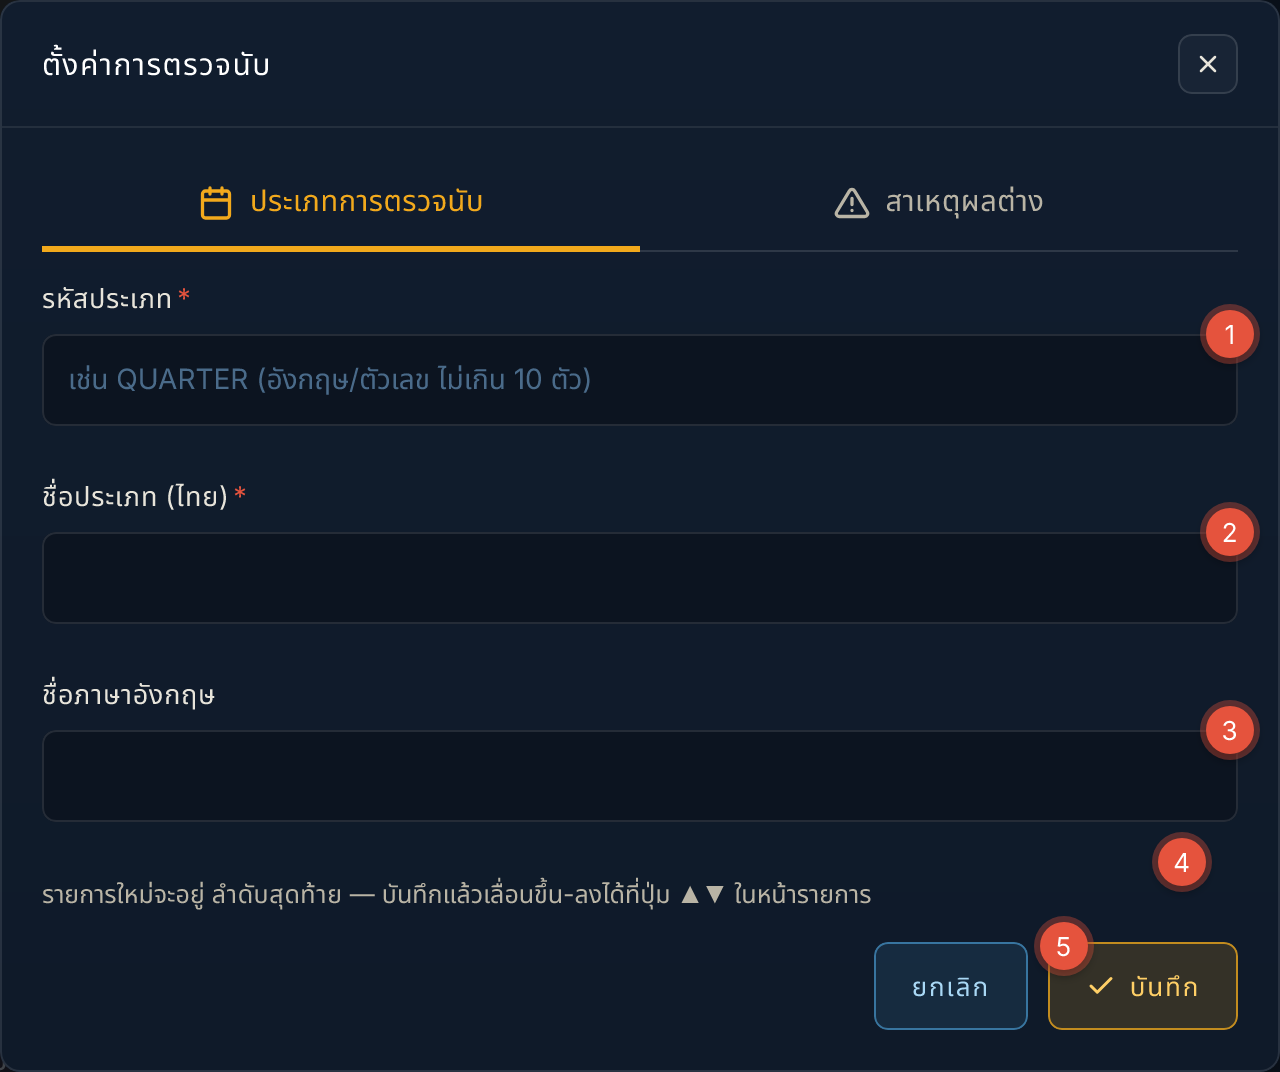
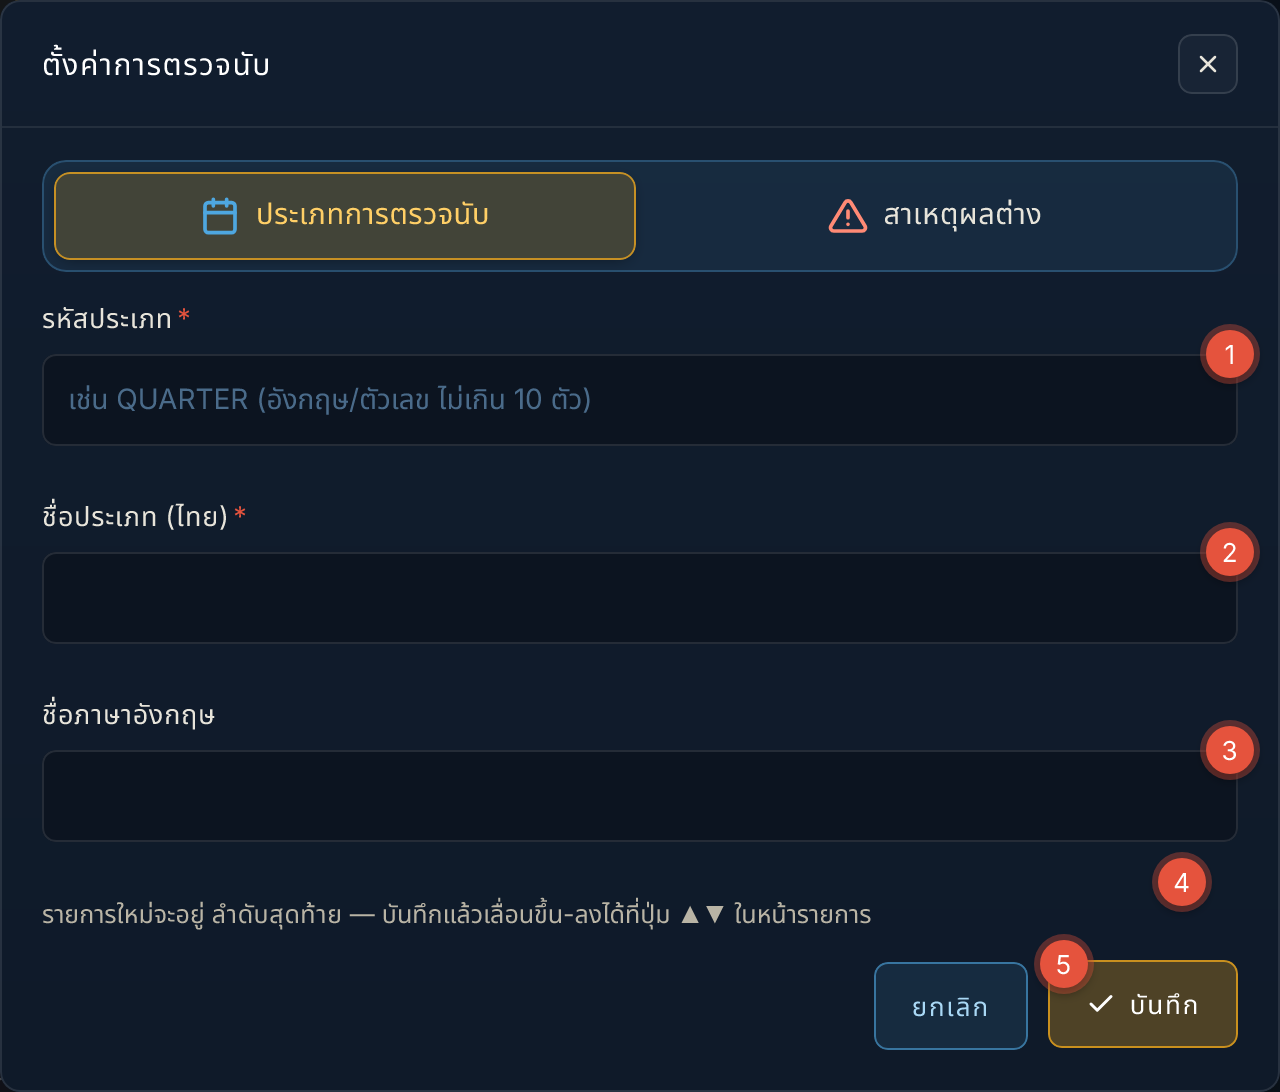
Fix duplicate SQL param in compFilter (restricted-company users could not load report meta); settings dialog tab/row styling

diff --git a/public/stock-count.html b/public/stock-count.html
@@ -1017,23 +1017,34 @@
     #dlgModal .form-grid.g2 input{height:46px; min-height:46px;}
     #dlgModal .form-grid.g2 .form-group.full{grid-column:1 / -1;}
   }
-  .su-tabs{display:flex; border-bottom:1px solid rgba(255,255,255,.12); margin-bottom:14px;}
-  .su-tabs button{flex:1; display:flex; align-items:center; justify-content:center; gap:8px; min-height:46px; padding:0 8px; background:none; border:0; border-bottom:3px solid transparent; margin-bottom:-1px; color:var(--concrete-400); font:inherit; font-size:14.5px; font-weight:600; cursor:pointer;}
-  .su-tabs button:hover{color:#fff;}
-  .su-tabs button.on{color:var(--amber-500); border-bottom-color:var(--amber-500);}
-  .su-tabs svg{width:18px; height:18px; flex:none;}
+  .su-tabs{display:flex; gap:4px; padding:5px; margin-bottom:14px; border-radius:12px; background:rgba(78,167,224,.1); border:1px solid rgba(78,167,224,.3);}
+  .su-tabs button{flex:1; display:flex; align-items:center; justify-content:center; gap:8px; min-height:44px; padding:0 8px; background:none; border:1px solid transparent; border-radius:8px; color:var(--concrete-200); font:inherit; font-size:14.5px; font-weight:600; cursor:pointer; transition:background .15s, border-color .15s;}
+  .su-tabs button:hover{background:rgba(255,255,255,.06); color:#fff;}
+  .su-tabs button.on{background:rgba(242,169,28,.2); border-color:rgba(242,169,28,.75); color:#ffcf66; box-shadow:0 2px 8px -3px rgba(0,0,0,.5);}
+  .su-tabs svg{width:20px; height:20px; flex:none;}
+  .su-tabs button[data-sutab=type] svg{color:#4ea7e0;}
+  .su-tabs button[data-sutab=cause] svg{color:#ff8a75;}
   .su-hint{font-size:12.5px; color:var(--concrete-400); margin:0 0 12px; line-height:1.6;}
-  .su-row{display:flex; align-items:center; gap:10px; padding:10px 12px; border:1px solid rgba(255,255,255,.1); border-radius:10px; background:rgba(255,255,255,.03); margin-bottom:8px;}
-  .su-row.off .su-main{opacity:.55;}
-  .su-ord{display:flex; align-items:center; gap:6px; flex:none;}
-  .su-ord button{width:36px; height:36px; border-radius:8px; border:1px solid rgba(78,167,224,.45); background:rgba(78,167,224,.1); color:#a9d8f5; cursor:pointer; font-size:12px; padding:0;}
+  .su-row{display:flex; align-items:center; gap:10px; padding:8px 12px; border:1px solid rgba(255,255,255,.1); border-radius:10px; background:rgba(255,255,255,.03); margin-bottom:6px;}
+  .su-row.off .su-main b, .su-row.off .su-main small{opacity:.55;}
+  .su-ord{display:flex; align-items:center; gap:4px; flex:none;}
+  .su-ord button{width:32px; height:32px; border-radius:8px; border:1px solid rgba(78,167,224,.45); background:rgba(78,167,224,.1); color:#a9d8f5; cursor:pointer; font-size:11px; padding:0;}
   .su-ord button:disabled{opacity:.25; cursor:default;}
-  .su-ord .no{min-width:26px; text-align:center; font-family:'JetBrains Mono',monospace; font-weight:700; color:var(--amber-500); font-size:15px;}
-  .su-main{flex:1 1 auto; min-width:0;}
+  .su-ord .no{min-width:24px; text-align:center; font-family:'JetBrains Mono',monospace; font-weight:700; color:var(--amber-500); font-size:15px;}
+  .su-main{flex:1 1 auto; min-width:0; display:flex; align-items:center; gap:4px 14px; flex-wrap:wrap;}
   .su-main b{color:#fff; font-weight:600; overflow-wrap:anywhere;}
-  .su-main small{display:block; color:var(--concrete-400); font-size:12px; margin-top:2px;}
-  .su-main .switch{font-size:13px; margin-top:6px;}
-  .su-row .btn{flex:none; min-height:40px;}
+  .su-main small{color:var(--concrete-400); font-size:12px;}
+  .su-main .switch{font-size:13px; margin-left:auto;}
+  .su-row .btn{flex:none; min-height:36px; padding:0 12px;}
+  @media (max-width:560px){
+    .su-tabs button{font-size:13px; gap:5px; padding:0 4px; white-space:nowrap;} .su-tabs svg{width:17px; height:17px;}
+    .su-row{padding:10px 12px; margin-bottom:8px;}
+    .su-ord button{width:36px; height:36px;}
+    .su-main{flex-direction:column; align-items:flex-start; gap:2px;}
+    .su-main small{display:block;}
+    .su-main .switch{margin:6px 0 0;}
+    .su-row .btn{min-height:40px;}
+  }
   .su-form .form-group{margin-bottom:12px;}
   .su-form input[type=text], .su-form input[type=number]{height:46px; min-height:46px;}
   .dc-more{margin-top:10px;}

diff --git a/tools/manual-shots/mk-sc.js b/tools/manual-shots/mk-sc.js
@@ -164,7 +164,7 @@ const SHOTS = {
     return page.locator('#whModal .modal-box').screenshot({ type: 'png' }); },
   // ตั้งค่าประเภท / สาเหตุ (เฉพาะผู้มีสิทธิ์ stock_count_setup)
   async 'sc-setup'(page) { await go(page, '/stock-count', P.reviewer); await page.click('#btnSetup'); await page.waitForTimeout(900);
-    await pins(page, 'sc-setup', [[1, '.su-tabs button', 0, 'tl', 6, 4], [2, '.su-tabs button', 1, 'tl', 6, 4], [3, '.su-ord', 1, 'l', -2, 0], [4, '[data-suact]', 1, 'l', -16, 0], [5, '[data-suedit]', 1, 'l', -4, 0], [6, '[data-suadd]', 0, 'l', -6, 0]]);
+    await pins(page, 'sc-setup', [[1, '.su-tabs button', 0, 'tl', 6, 4], [2, '.su-tabs button', 1, 'tl', 6, 4], [3, '.su-ord', 1, 'l', -2, 0], [4, '[data-suact]', 1, 'l', -16, 0], [5, '[data-suedit]', 1, 'tr', 4, -4], [6, '[data-suadd]', 0, 'l', -6, 0]]);
     return page.locator('#dlgModal .modal-box').screenshot({ type: 'png' }); },
   async 'sc-setup-form'(page) { await go(page, '/stock-count', P.reviewer); await page.click('#btnSetup'); await page.waitForTimeout(700); await page.click('[data-suadd]'); await page.waitForTimeout(500);
     await pins(page, 'sc-setup-form', [[1, '#suCode'], [2, '#suName'], [3, '#suEn'], [4, '.su-hint', 0, 'tr', -24, -6], [5, '[data-susave]', 0, 'tl', 4, 2]]);

diff --git a/server.js b/server.js
@@ -490,8 +490,10 @@ function compFilter(access, request, column) {
   if (access.allComps) return '';
   const ids = [...access.comps].map(Number).filter(Number.isInteger);
   if (ids.length === 0) return 'AND 1 = 0';
-  ids.forEach((id, i) => request.input(`accComp${i}`, sql.Int, id));
-  return `AND ${column} IN (${ids.map((_, i) => `@accComp${i}`).join(', ')})`;
+  // เรียกซ้ำใน request เดียวกันได้ (เช่น บริษัท + คลัง) — ชื่อ parameter ต้องไม่ซ้ำ ไม่งั้น mssql ขึ้น EDUPEPARAM (ผู้ใช้ที่จำกัดบริษัทโหลดไม่ได้)
+  const n = request.__compFilterN = (request.__compFilterN || 0) + 1;
+  ids.forEach((id, i) => request.input(`accComp${n}_${i}`, sql.Int, id));
+  return `AND ${column} IN (${ids.map((_, i) => `@accComp${n}_${i}`).join(', ')})`;
 }
 
 // ต้อง login: เก็บ idPs (จาก session) ไว้ที่ req.idPs ให้ handler ใช้ต่อ
